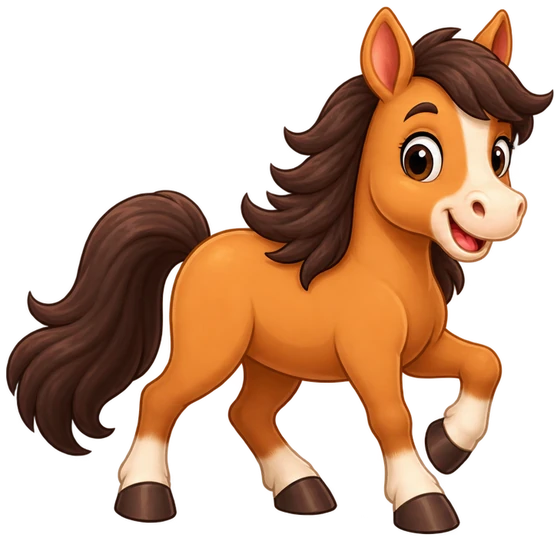
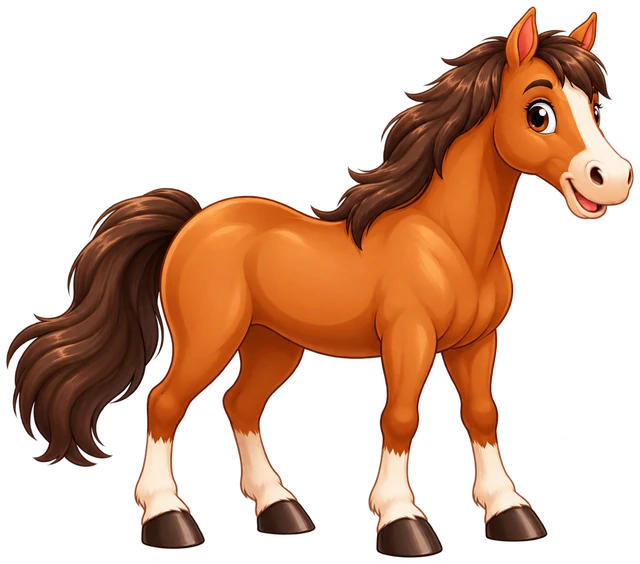
changed horse image

diff --git a/3_BUILD/HI02H11_L02_S04.html b/3_BUILD/HI02H11_L02_S04.html
@@ -4295,6 +4295,10 @@ body.spk-busy .tut-audio{ pointer-events:none !important; opacity:.45; filter:gr
 .mb-v2 .mb-rword > .mb-rbase, .mb-v2 .mb-rword > .mb-result{ justify-self:start; }
 /* खि of खिलौना joins from the left, as ना joins from the right */
 .mb-v2 .mb-rpre.mb-tailwait{ transform:translateX(-.35em) scale(.85); }
+/* [S04 2026-10-22] page 2: the developer - "reduce the size of घड़ा". The pot is a solid round mass that
+   filled its whole 210 px box and read much bigger than the horse beside it; it is 160 px now, standing on
+   the same ground line as the horse's hooves (the box itself is unchanged, so nothing else moves). */
+.mb-v2 .mb-p1 .mb-pic img[src*="/obj_ghada."]{ max-height:160px; align-self:flex-end; }
 
 /* [r145] QA BUG_10: the mic while the speaker replays its word - greyed like a finished mic, no pulse */
 .mx-v2 .mx-mic.mx-wait{ filter:grayscale(1); cursor:default; }
@@ -8373,7 +8377,7 @@ function sortSeqReveal(tray, slide){
 /* [S04] CACHE-BUST EVERY PICTURE, the same way _av() does for audio: a redrawn picture keeps its
    filename, so a browser that has seen the old one keeps showing it. Stamped by the builder from the
    CONTENT of assets/Images. */
-var __IMG_V = "9c8c7060d745";
+var __IMG_V = "02f674bf94b8";
 function imgOrEmoji(imgKey, emoji, imgClass, emojiClass){
   if(imgKey){
     const fb = String(emoji||"❓").replace(/'/g,"");

diff --git a/4_ENGINE/lesson_template.html b/4_ENGINE/lesson_template.html
@@ -4295,6 +4295,10 @@ body.spk-busy .tut-audio{ pointer-events:none !important; opacity:.45; filter:gr
 .mb-v2 .mb-rword > .mb-rbase, .mb-v2 .mb-rword > .mb-result{ justify-self:start; }
 /* खि of खिलौना joins from the left, as ना joins from the right */
 .mb-v2 .mb-rpre.mb-tailwait{ transform:translateX(-.35em) scale(.85); }
+/* [S04 2026-10-22] page 2: the developer - "reduce the size of घड़ा". The pot is a solid round mass that
+   filled its whole 210 px box and read much bigger than the horse beside it; it is 160 px now, standing on
+   the same ground line as the horse's hooves (the box itself is unchanged, so nothing else moves). */
+.mb-v2 .mb-p1 .mb-pic img[src*="/obj_ghada."]{ max-height:160px; align-self:flex-end; }
 
 /* [r145] QA BUG_10: the mic while the speaker replays its word - greyed like a finished mic, no pulse */
 .mx-v2 .mx-mic.mx-wait{ filter:grayscale(1); cursor:default; }

diff --git a/4_ENGINE/train_styles.css b/4_ENGINE/train_styles.css
@@ -2195,6 +2195,10 @@ body.spk-busy .tut-audio{ pointer-events:none !important; opacity:.45; filter:gr
 .mb-v2 .mb-rword > .mb-rbase, .mb-v2 .mb-rword > .mb-result{ justify-self:start; }
 /* खि of खिलौना joins from the left, as ना joins from the right */
 .mb-v2 .mb-rpre.mb-tailwait{ transform:translateX(-.35em) scale(.85); }
+/* [S04 2026-10-22] page 2: the developer - "reduce the size of घड़ा". The pot is a solid round mass that
+   filled its whole 210 px box and read much bigger than the horse beside it; it is 160 px now, standing on
+   the same ground line as the horse's hooves (the box itself is unchanged, so nothing else moves). */
+.mb-v2 .mb-p1 .mb-pic img[src*="/obj_ghada."]{ max-height:160px; align-self:flex-end; }
 
 /* [r145] QA BUG_10: the mic while the speaker replays its word - greyed like a finished mic, no pulse */
 .mx-v2 .mx-mic.mx-wait{ filter:grayscale(1); cursor:default; }

diff --git a/CHANGES.md b/CHANGES.md
@@ -464,3 +464,14 @@ Measured with real pointer taps / drags, reminder already used, then a wrong ans
 7.0-7.6 s after the hint ends on the tap pages (G1, G2), the sort page (G4) and the sentence page; after one
 correct drop of four (G4) 6.9-7.1 s; untouched, it plays once and not again in 30 s; nothing after a correct
 answer.
+
+## Round 18 (2026-10-22) — the new horse, a smaller घड़ा on page 2
+
+- **Horse** — the developer's new picture («Cheerful Chestnut Horse Illustration.png», a transparent cut-out)
+  replaces `obj_ghoda.webp`: trimmed to the horse, 640 x 564, WebP. It is the same file everywhere the horse
+  appears - page 2 (घोड़ा), page 13 (picture sort), page 14 (sentence option). The source PNG moved out of the
+  deployed folder to `1_SPEC/art_src/obj_ghoda_v2_source.png`; the build's picture stamp changed, so browsers
+  fetch the new one.
+- **Page 2, «घड़ा»** — the pot filled its whole 210 px box and read much bigger than the horse; it is 160 px
+  tall now and stands on the same ground line as the horse's hooves. The box, the word and everything else on
+  the page are unchanged.
